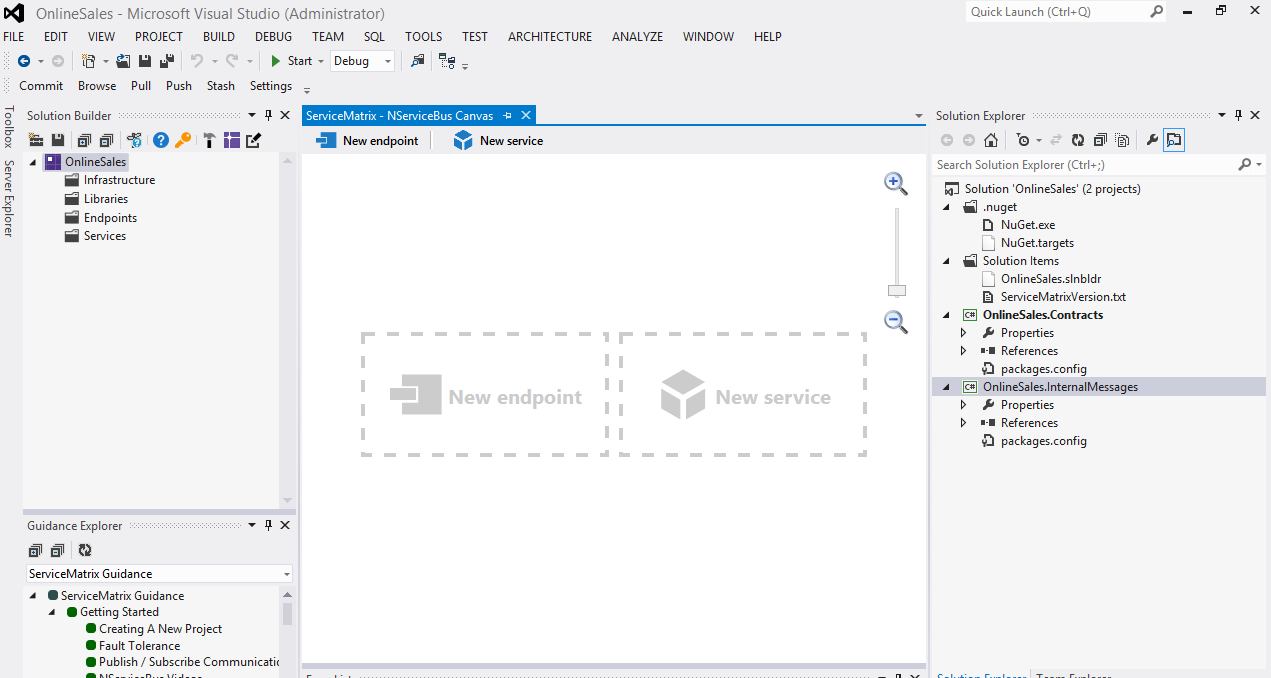
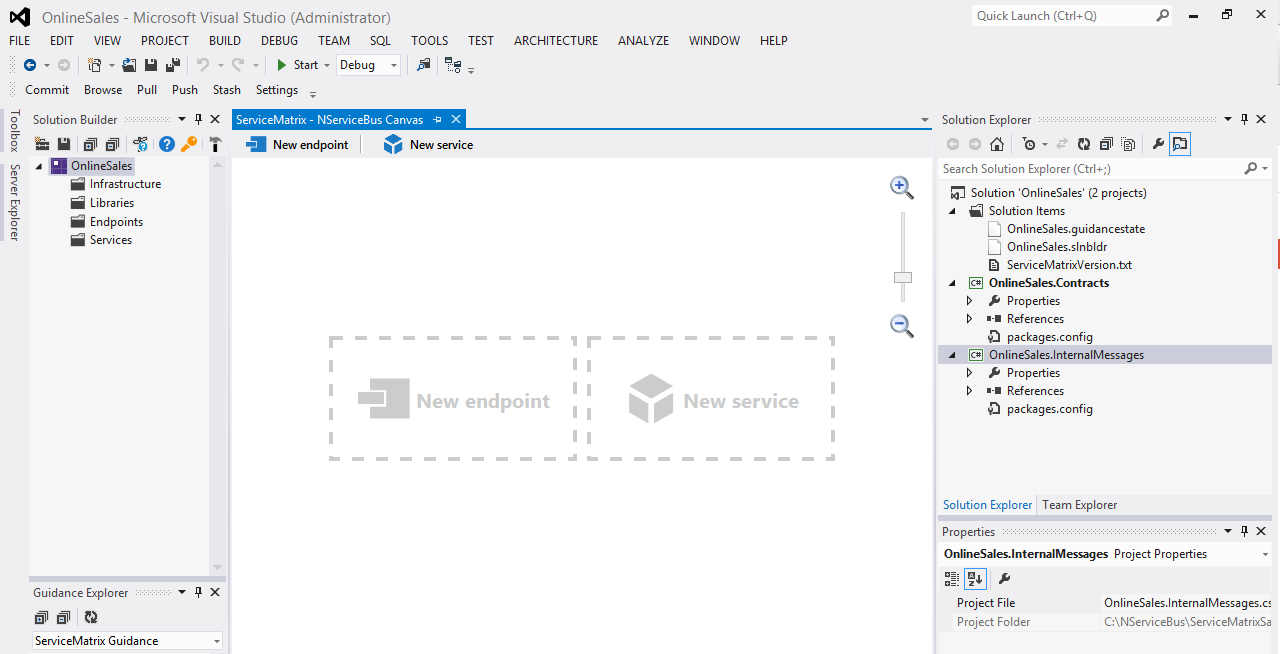
fixing formating and image sizing
Refining a bunch of formatting and content issues

diff --git a/Content/ServiceMatrix/getting-started-with-servicematrix.md b/Content/ServiceMatrix/getting-started-with-servicematrix.md
@@ -5,7 +5,7 @@ tags:
 - ServiceMatrix
 - Send and Receive
 - Visual Studio
-authors: [Sean Farmer, Joe Ratzloff]
+authors: [Sean Farmar, Joe Ratzloff]
 reviewers: []
 contributors: []
 ---
@@ -22,61 +22,48 @@ This step-by-step guide will walk you through the creation of a send-and-receive
 6.  [Sending a Message](#Sending%20a%20Message)
 7.  [Running the Application](#Running%20the%20Application)
 
-The complete solution code can be found
-[here.](https://github.com/sfarmar/Samples/tree/master/ServiceMatrixIntro)
-
 The example demonstrates the integration of an online sales web store with a backend system using the request - response pattern and NServiceBus.
 
 <a id="Installing ServiceMatrix" name="Installing ServiceMatrix"> </a> Installing ServiceMatrix v2.0 for Visual Studio 2012 
 ---
 System requirements:
-
--   Visual Studio 2010 or Visual Studio 2012
-
+-   Visual Studio 2012
 -   ASP.NET MVC 4 ([http://www.asp.net/downloads](http://www.asp.net/downloads))
 
 To install ServiceMatrix:
-
 1.  Download the latest version from [http://particular.net/downloads](http://particular.net/downloads)
-
 2.  Run the installer.
 
-**NOTE** : If you have both Visual Studio 2010 and Visual Studio 2012 installed on your machine, you can install ServiceMatrix for one Visual Studio version. This document guides the use of ServiceMatrix v2.0 for Visual Studio 2012.
+**NOTE** : If you have both Visual Studio 2010 and Visual Studio 2012 installed on your machine, you can install ServiceMatrix for one Visual Studio version. This document reviews the use of ServiceMatrix v2.0 for Visual Studio 2012.
 
 <a id="Creating a new project" name="Creating a new project"> </a> Creating a new project
 ---
 
-To get started with ServiceMatrix, create a new project:
+To get started with ServiceMatrix, create a new project.
+### Create NServiceBus Project ###
+In Visual Studio select `File\New\Project` and Select 'NServiceBus System' under the Visual C\# project type. Target the .NET Framework 4.5 for this project. ![NewProject](images/servicematrix-reqresp-newproject.png)
+In the Solution name, type 'OnlineSales' (or any other name) for the name of your application.
+### Review The Solution ###
+You'll see that a solution folder has been created for your solution, as shown. 
+![New Solution](images/servicematrix-reqresp-freshsolution.png)
 
-1. In Visual Studio select 'File\> New\> Project' and Select 'NServiceBus System' under the Visual C\# project type. Target the .NET Framework 4.5 for this project. ![NewProject](http://raw2.github.com/Particular/docs.particular.net/Drafts/Content/NServiceBus/servicematrix/images/servicematrix-reqresp-newproject.png)
-2. In the Solution name, type 'OnlineSales' (or any other name) for the name of your application.  
-You'll see that a solution folder has been created for your solution, as shown. ![New Solution](http://raw2.github.com/Particular/docs.particular.net/Drafts/Content/NServiceBus/servicematrix/images/servicematrix-reqresp-freshsolution.png)
+A number of projects have been created for you, as shown in the Solution Explorer pane. The `Solution Items` folder is part of the ServiceMatrix infrastructure.
 
-A number of projects have been created for you, as shown in the Solution Explorer pane.
-The '.nuget' (we use Nuget for our dependencies and the '.nuget' folder is there to support enabling Package Restore and 'Solution Items' folders are part of the ServiceMatrix infrastructure
-
-Two important folders are the 'Contract' and 'InternalMessages' projects as they are where all message types are placed:
-
--   All defined events will be put in the 'Contract' project.
--   All commands will be put in the 'InternalMessages' project. 
+Two important folders are the `Contract` and `InternalMessages` projects as they are where all message types are placed:
+-   All defined events will be put in the `Contract` project.
+-   All commands will be put in the `InternalMessages` project. 
 
 Later you will see how messages from different services are partitioned in these projects. 
 
-Take a look at the design environment. The <a href="http://raw2.github.com/Particular/docs.particular.net/Drafts/Content/NServiceBus/servicematrix/images/servicematrix-solutionbuilder.png" target = "_blank">Solution Builder</a> on the left provides a hierarchy of the logical elements of the solution. If you  don't see a docked window in Visual Studio called Solution Builder,  open it via the View menu.
+Take a look at the design environment. The <a href="images/servicematrix-solutionbuilder.png">Solution Builder</a> on the left provides a hierarchy of the logical elements of the solution. If you  don't see a docked window in Visual Studio called Solution Builder,  open it via the View menu.
 
 You should see folders in Solution Builder called 'Infrastructure', 'Libraries', 'Endpoints', and 'Services'.
-
 -   Infrastructure is where cross-cutting concerns like authentication and auditing are handled.
-
 -   Libraries are units of code that can be reused, including logging and data access.
+-   Endpoints are where code is deployed as executable processes. They can be web applications (both Web Forms and MVC) or <a href="/NServiceBus/the-nservicebus-host">NServiceBus Hosts </a>.
+-   Services are logical containers for code that provide the structure for publish/subscribe events and command-processing.  Services are comprised of Components which will be shown later.
 
--   Endpoints are where code is deployed as executable processes. They can be web applications (both Web Forms and MVC) or NServiceBus
-Hosts (a special kind of Windows Service that allows you to debug it
-as a Console Application).
-
--   Services are logical containers for code that provide the structure for publish/subscribe events and command-processing.Services are made of Components which will be shown later.
-
-The <a href="http://raw2.github.com/Particular/docs.particular.net/Drafts/Content/NServiceBus/servicematrix/images/servicematrix-canvas.png" target= "_blank">NServiceBus Canvas </a> is in the center of the solution as shown above.   The endpoints, services, components and messages that comprise our solution will be created and illustrated here.
+The <a href="images/servicematrix-canvas.png">NServiceBus Canvas </a> is in the center of the solution as shown above.   The endpoints, services, components and messages that comprise our solution will be created and illustrated here.
 
 This dashed areas within the canvas and the buttons at the top are used to start building our solution.   **NOTE**: Alternatively, they can also be created using the Solution Builder tree view.  However since this is a visual tool, we will demonstrate using the canvas.  As items are added to the canvas they will appear in the Solution Builder as well as in the Solution Explorer project.
 
@@ -88,15 +75,20 @@ To build the solution we will define and endpoint for the website and another en
 
 <a id="Creating the Endpoints" name="Creating Endpoints"></a> Creating Endpoints
 ----
-First we will create the endpoints for selling and processing. 
+First we will create the endpoints for selling and processing.
+###New Endpoint ### 
+To create and endpoint on the canvas either select the dashed 'New Endpoint' area on the canvas or the button at the top of the canvas.<br>
+![New Endpoint Popup](images/servicematrix-newendpoint.png)
+Name the endpoint `ECommerce` and choose ASP.NET MVC as the endpoint host.  **NOTE: ** MVC Endpoints require that ASP.NET MVC be installed on the local machine. If you haven't installed ASP MVC on your machine, choose a Web Forms host for the endpoint instead.  Both work equally well. 
+###Review The Endpoint###
+We will examine the generated code in detail later to understand    how things work behind the scenes.  For now, notice how Service Matrix has created the ECommerce Endpoint on the canvas, in the Solution Builder and in the Visual Studio Project.  In the solution builder notice that this endpoint has a folder to contain components.  Components contain the code for specific services.  They can only send commands to other components in the same service.  However, they can subscribe to events that are published by components in *any* service. Soon our Sales components will be deployed to our endpoints.
+####Create `OrderProcessing` Endpoint
+Create another endpoint called `OrderProcessing`.  This time select 'NServiceBus Host' as the host.  
 
-1. To create and endpoint on the canvas either select the dashed 'New Endpoint' area on the canvas or the button at the top of the canvas.<br>
-![New Endpoint Popup](http://github.com/Particular/docs.particular.net/raw/Drafts/Content/NServiceBus/servicematrix/images/servicematrix-newendpoint.png)
-2. Name the endpoint 'ECommerce' and choose ASP.NET MVC as the endpoint host.  **NOTE: ** MVC Endpoints require that ASP.NET MVC be installed on the local machine. If you haven't installed ASP MVC on your machine, choose a Web Forms host for the endpoint instead.  Both work equally well. 
-3. We will examine the generated code in detail later to understand    how things work behind the scenes.  For now, notice how Service Matrix has created the ECommerce Endpoint on the canvas, in the Solution Builder and in the Visual Studio Project.  In the solution builder notice that this endpoint has a folder to contain components.  Components contain the code for specific services.  They can only send commands to other components in the same service.  However, they can subscribe to events that are published by components in *any* service. Soon our Sales components will be deployed to our endpoints.
-4. Create another endpoint called 'OrderProcessing'.  This time select 'NServiceBus Host' as the host.  
+At this point your Solution should have both endpoint on the NServiceBus canvas.
 
-At this point your Solution should have both endpoint on the NServiceBus canvas [as shown](http://github.com/Particular/docs.particular.net/raw/Drafts/Content/NServiceBus/servicematrix/images/servicematrix-canvaswithendpoints.png "Endpoints On NServiceBus Canvas"). Notice how you can control the zoom with your mouse scroll wheel and drag the boxes around.   You will have to rearrange the canvas as more things are added to it.  
+![](images/servicematrix-canvaswithendpoints.png) 
+Notice how you can control the zoom with your mouse scroll wheel and drag the boxes around.   You will have to rearrange the canvas as more things are added to it.  
 
 <a id="Creating Services" name="Creating Services"></a> Creating Services 
 ----
